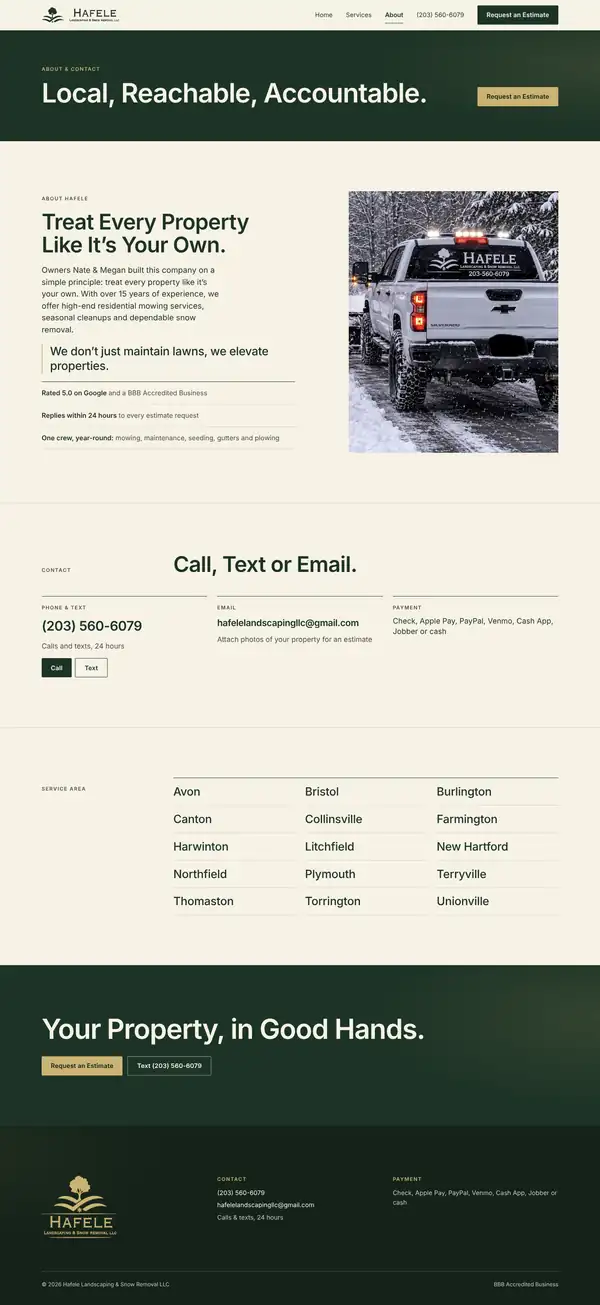
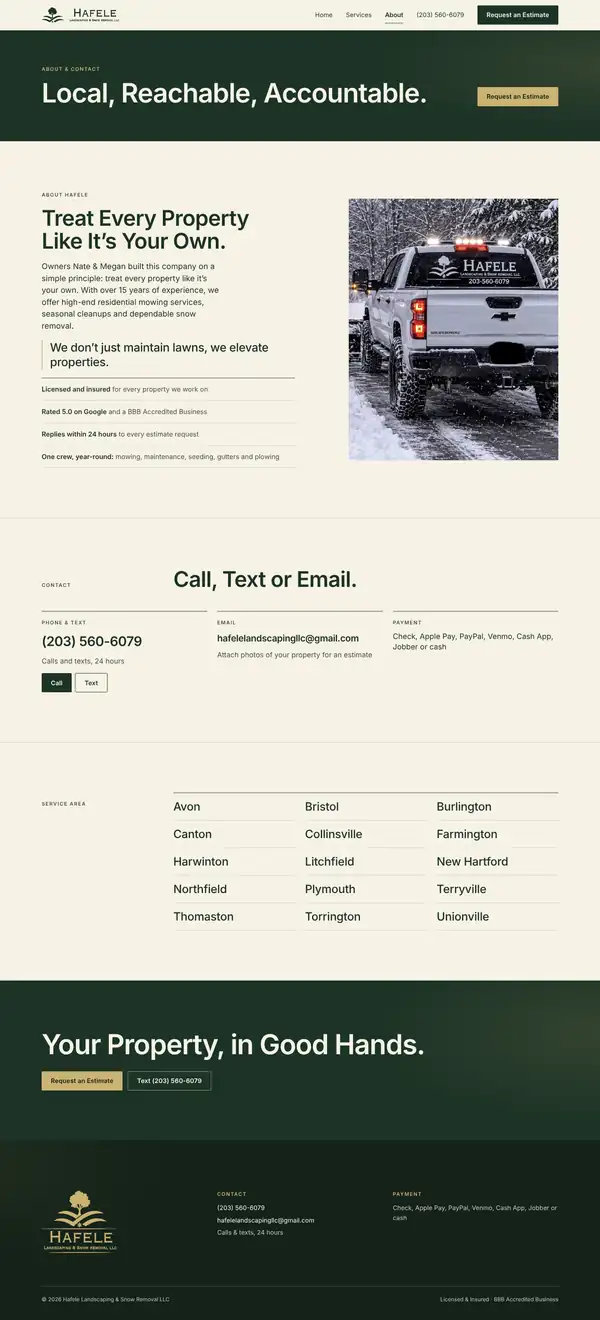
Update Hafele showcase: Licensed & Insured, hero fixes
- Re-shoot Home, Services and About (trust line under the headline,
  Licensed & Insured in facts/About/footer, iPhone hero fix)
- Write-up mentions the trust line
- Bump screenshot version

Claude-Session: https://claude.ai/code/session_01S1GkKjA7JTsXNm3XxvC6Wo

diff --git a/index.html b/index.html
@@ -9,12 +9,12 @@
 <meta property="og:url" content="https://b0to1q.github.io/BRAND-BY-G/">
 <meta property="og:title" content="Brand by G">
 <meta property="og:description" content="Websites for local businesses in Connecticut. Built right. Owned by you.">
-<meta property="og:image" content="https://b0to1q.github.io/BRAND-BY-G/og.png?v=5">
+<meta property="og:image" content="https://b0to1q.github.io/BRAND-BY-G/og.png?v=6">
 <meta property="og:image:width" content="1200">
 <meta property="og:image:height" content="630">
 <meta property="og:image:alt" content="Brand by G.">
 <meta name="twitter:card" content="summary_large_image">
-<meta name="twitter:image" content="https://b0to1q.github.io/BRAND-BY-G/og.png?v=5">
+<meta name="twitter:image" content="https://b0to1q.github.io/BRAND-BY-G/og.png?v=6">
 <meta name="theme-color" content="#2A2D2B">
 <link rel="icon" type="image/png" sizes="32x32" href="favicon-32.png">
 <link rel="icon" type="image/png" sizes="48x48" href="favicon-48.png">
@@ -157,7 +157,7 @@ dl.spec a{color:var(--c-acc)}
 .zvp{flex:1;min-height:0;overflow-y:auto;overscroll-behavior:contain;background:#fff;-webkit-overflow-scrolling:touch}
 .zvp img{display:block;width:100%;height:auto}
 .zvp{background-color:#fff;background-size:cover;background-position:center top;background-repeat:no-repeat}
-.shot.bgdani{background:#0B1416 url(img/v3/bg-dani-d.webp?v=5) center top/cover no-repeat}
+.shot.bgdani{background:#0B1416 url(img/v3/bg-dani-d.webp?v=6) center top/cover no-repeat}
 .zframe.phone{width:min(392px,100%);border-radius:34px;padding:4px}
 .zframe.phone .bar{display:none}
 .zframe.phone .zvp{border-radius:30px}
@@ -232,9 +232,9 @@ a:focus-visible{outline:3px solid var(--acc);outline-offset:3px;border-radius:4p
       <p class="where">George Blanchard Jr. · Plantsville, Connecticut</p>
     </div>
     <div class="stage" aria-hidden="true">
-      <div class="br s1"><div class="bar"><i></i><i></i><i></i><span>Hafele Landscaping &amp; Snow Removal</span></div><img src="img/v3/d-hafele-home.webp?v=5" alt=""></div>
-      <div class="br s2"><div class="bar"><i></i><i></i><i></i><span>Dani Hamm — Prints &amp; goods</span></div><img src="img/v3/d-dani-shop.webp?v=5" alt="" style="background:#0B1416 url(img/v3/bg-dani-d.webp?v=5) center top/cover no-repeat"></div>
-      <div class="ph s3"><img src="img/v3/m-hafele-home.webp?v=5" alt=""></div>
+      <div class="br s1"><div class="bar"><i></i><i></i><i></i><span>Hafele Landscaping &amp; Snow Removal</span></div><img src="img/v3/d-hafele-home.webp?v=6" alt=""></div>
+      <div class="br s2"><div class="bar"><i></i><i></i><i></i><span>Dani Hamm — Prints &amp; goods</span></div><img src="img/v3/d-dani-shop.webp?v=6" alt="" style="background:#0B1416 url(img/v3/bg-dani-d.webp?v=6) center top/cover no-repeat"></div>
+      <div class="ph s3"><img src="img/v3/m-hafele-home.webp?v=6" alt=""></div>
     </div>
   </div>
 </section>
@@ -245,51 +245,51 @@ a:focus-visible{outline:3px solid var(--acc);outline-offset:3px;border-radius:4p
     <p class="sub">Three sites, twelve views. Tap one to open it full size and scroll through it.</p>
     <div class="grid">
       <button class="tile" type="button" data-i="0" style="--t-bg:#1D3326;--t-ink:#F6F2E6;--t-acc:#CBB373" aria-label="Open Hafele Landscaping, Home page">
-        <span class="shot"><img src="img/v3/t-hafele-home.webp?v=5" alt="" loading="lazy"></span>
+        <span class="shot"><img src="img/v3/t-hafele-home.webp?v=6" alt="" loading="lazy"></span>
         <span class="lbl"><span class="cl">Hafele Landscaping</span><span class="pg">Home</span></span>
       </button>
       <button class="tile" type="button" data-i="1" style="--t-bg:#1D3326;--t-ink:#F6F2E6;--t-acc:#CBB373" aria-label="Open Hafele Landscaping, Services page">
-        <span class="shot"><img src="img/v3/t-hafele-services.webp?v=5" alt="" loading="lazy"></span>
+        <span class="shot"><img src="img/v3/t-hafele-services.webp?v=6" alt="" loading="lazy"></span>
         <span class="lbl"><span class="cl">Hafele Landscaping</span><span class="pg">Services</span></span>
       </button>
       <button class="tile" type="button" data-i="2" style="--t-bg:#1D3326;--t-ink:#F6F2E6;--t-acc:#CBB373" aria-label="Open Hafele Landscaping, About &amp; contact page">
-        <span class="shot"><img src="img/v3/t-hafele-about.webp?v=5" alt="" loading="lazy"></span>
+        <span class="shot"><img src="img/v3/t-hafele-about.webp?v=6" alt="" loading="lazy"></span>
         <span class="lbl"><span class="cl">Hafele Landscaping</span><span class="pg">About &amp; contact</span></span>
       </button>
       <button class="tile" type="button" data-i="3" style="--t-bg:#121A1D;--t-ink:#E9EEF0;--t-acc:#8FB1B8" aria-label="Open Dani Hamm, Home page">
-        <span class="shot bgdani"><img src="img/v3/t-dani-home.webp?v=5" alt="" loading="lazy"></span>
+        <span class="shot bgdani"><img src="img/v3/t-dani-home.webp?v=6" alt="" loading="lazy"></span>
         <span class="lbl"><span class="cl">Dani Hamm</span><span class="pg">Home</span></span>
       </button>
       <button class="tile" type="button" data-i="4" style="--t-bg:#121A1D;--t-ink:#E9EEF0;--t-acc:#8FB1B8" aria-label="Open Dani Hamm, Shop page">
-        <span class="shot bgdani"><img src="img/v3/t-dani-shop.webp?v=5" alt="" loading="lazy"></span>
+        <span class="shot bgdani"><img src="img/v3/t-dani-shop.webp?v=6" alt="" loading="lazy"></span>
         <span class="lbl"><span class="cl">Dani Hamm</span><span class="pg">Shop</span></span>
       </button>
       <button class="tile" type="button" data-i="5" style="--t-bg:#121A1D;--t-ink:#E9EEF0;--t-acc:#8FB1B8" aria-label="Open Dani Hamm, Product page">
-        <span class="shot bgdani"><img src="img/v3/t-dani-product.webp?v=5" alt="" loading="lazy"></span>
+        <span class="shot bgdani"><img src="img/v3/t-dani-product.webp?v=6" alt="" loading="lazy"></span>
         <span class="lbl"><span class="cl">Dani Hamm</span><span class="pg">Product</span></span>
       </button>
       <button class="tile" type="button" data-i="6" style="--t-bg:#121A1D;--t-ink:#E9EEF0;--t-acc:#8FB1B8" aria-label="Open Dani Hamm, About page">
-        <span class="shot bgdani"><img src="img/v3/t-dani-about.webp?v=5" alt="" loading="lazy"></span>
+        <span class="shot bgdani"><img src="img/v3/t-dani-about.webp?v=6" alt="" loading="lazy"></span>
         <span class="lbl"><span class="cl">Dani Hamm</span><span class="pg">About</span></span>
       </button>
       <button class="tile" type="button" data-i="7" style="--t-bg:#121A1D;--t-ink:#E9EEF0;--t-acc:#8FB1B8" aria-label="Open Dani Hamm, Contact page">
-        <span class="shot bgdani"><img src="img/v3/t-dani-contact.webp?v=5" alt="" loading="lazy"></span>
+        <span class="shot bgdani"><img src="img/v3/t-dani-contact.webp?v=6" alt="" loading="lazy"></span>
         <span class="lbl"><span class="cl">Dani Hamm</span><span class="pg">Contact</span></span>
       </button>
       <button class="tile" type="button" data-i="8" style="--t-bg:#0A0B0D;--t-ink:#F3F3F1;--t-acc:#FF3D2E" aria-label="Open Reillo Private Detail, Home">
-        <span class="shot" style="background:#0A0B0D"><img src="img/v3/t-reillo-top.webp?v=5" alt="" loading="lazy"></span>
+        <span class="shot" style="background:#0A0B0D"><img src="img/v3/t-reillo-top.webp?v=6" alt="" loading="lazy"></span>
         <span class="lbl"><span class="cl">Reillo</span><span class="pg">Home</span></span>
       </button>
       <button class="tile" type="button" data-i="9" style="--t-bg:#0A0B0D;--t-ink:#F3F3F1;--t-acc:#FF3D2E" aria-label="Open Reillo Private Detail, Package builder">
-        <span class="shot" style="background:#0A0B0D"><img src="img/v3/t-reillo-builder.webp?v=5" alt="" loading="lazy"></span>
+        <span class="shot" style="background:#0A0B0D"><img src="img/v3/t-reillo-builder.webp?v=6" alt="" loading="lazy"></span>
         <span class="lbl"><span class="cl">Reillo</span><span class="pg">Package builder</span></span>
       </button>
       <button class="tile" type="button" data-i="10" style="--t-bg:#0A0B0D;--t-ink:#F3F3F1;--t-acc:#FF3D2E" aria-label="Open Reillo Private Detail, Membership">
-        <span class="shot" style="background:#0A0B0D"><img src="img/v3/t-reillo-club.webp?v=5" alt="" loading="lazy"></span>
+        <span class="shot" style="background:#0A0B0D"><img src="img/v3/t-reillo-club.webp?v=6" alt="" loading="lazy"></span>
         <span class="lbl"><span class="cl">Reillo</span><span class="pg">Membership</span></span>
       </button>
       <button class="tile" type="button" data-i="11" style="--t-bg:#0A0B0D;--t-ink:#F3F3F1;--t-acc:#FF3D2E" aria-label="Open Reillo Private Detail, Booking">
-        <span class="shot" style="background:#0A0B0D"><img src="img/v3/t-reillo-book.webp?v=5" alt="" loading="lazy"></span>
+        <span class="shot" style="background:#0A0B0D"><img src="img/v3/t-reillo-book.webp?v=6" alt="" loading="lazy"></span>
         <span class="lbl"><span class="cl">Reillo</span><span class="pg">Booking</span></span>
       </button>
     </div>
@@ -311,7 +311,7 @@ a:focus-visible{outline:3px solid var(--acc);outline-offset:3px;border-radius:4p
           <li><strong>Four-Season Care.</strong> An annual agreement for year-round upkeep, with its own band on Home and Services, a request-a-walkthrough button, and an option in every season.</li>
           <li><strong>Two-step estimate request.</strong> Pick a service and a time window, then name, cell and address. Send opens a text to the owner with everything filled in, with an email fallback.</li>
           <li><strong>Call, Text and Get an Estimate</strong> pinned to the bottom of the screen on phones.</li>
-          <li><strong>Reviews in customers' own words</strong> on the home page, and an About page written with owners Nate &amp; Megan.</li>
+          <li><strong>Trust up front:</strong> a Licensed &amp; Insured · BBB Accredited · 5.0 on Google line under the headline, reviews in customers' own words on the home page, and an About page written with owners Nate &amp; Megan.</li>
           <li><strong>Three pages:</strong> Home, Services with common questions, and About &amp; Contact, written for homeowners in plain language — on its own domain, set up so Google can read the business details and every page shares cleanly.</li>
           <li><strong>Small touches:</strong> real job photos and a walk-around video, sections that fade up as you scroll, smooth scrolling with a mouse or trackpad, and a Verse of the Day above the footer.</li>
         </ul>
@@ -492,8 +492,8 @@ a:focus-visible{outline:3px solid var(--acc);outline-offset:3px;border-radius:4p
 
   const paint = it => {
     const sz = mode === 'phone' ? 'm' : 'd';
-    const src = 'img/v3/' + sz + '-' + it.k + '.webp?v=5';
-    vp.style.backgroundImage = it.g ? `url(img/v3/bg-${it.g}-${sz}.webp?v=5)` : 'none';
+    const src = 'img/v3/' + sz + '-' + it.k + '.webp?v=6';
+    vp.style.backgroundImage = it.g ? `url(img/v3/bg-${it.g}-${sz}.webp?v=6)` : 'none';
     vp.style.backgroundColor = it.g ? '#0B1416' : (it.s === 'rei' ? '#0A0B0D' : '#fff');
     const y = (mode === 'phone' ? it.ym : it.yd) || 0;
     const go = () => { vp.scrollTop = Math.round(y * img.offsetHeight); };
@@ -521,7 +521,7 @@ a:focus-visible{outline:3px solid var(--acc);outline-offset:3px;border-radius:4p
     tabs.querySelector('[aria-selected=true]')?.scrollIntoView({block: 'nearest', inline: 'nearest'});
     dots.innerHTML = ITEMS.map((x, j) => `<i class="${j === cur ? 'on' : ''}"></i>`).join('');
     if (dir) { frame.classList.remove('slide-l', 'slide-r'); void frame.offsetWidth; frame.classList.add(dir > 0 ? 'slide-l' : 'slide-r'); }
-    [cur - 1, cur + 1].forEach(j => { const x = ITEMS[(j + ITEMS.length) % ITEMS.length]; new Image().src = 'img/v3/' + (mode === 'phone' ? 'm-' : 'd-') + x.k + '.webp?v=5'; });
+    [cur - 1, cur + 1].forEach(j => { const x = ITEMS[(j + ITEMS.length) % ITEMS.length]; new Image().src = 'img/v3/' + (mode === 'phone' ? 'm-' : 'd-') + x.k + '.webp?v=6'; });
   };
 
   const rectClip = r => `inset(${r.top}px ${innerWidth - r.right}px ${innerHeight - r.bottom}px ${r.left}px round 14px)`;
